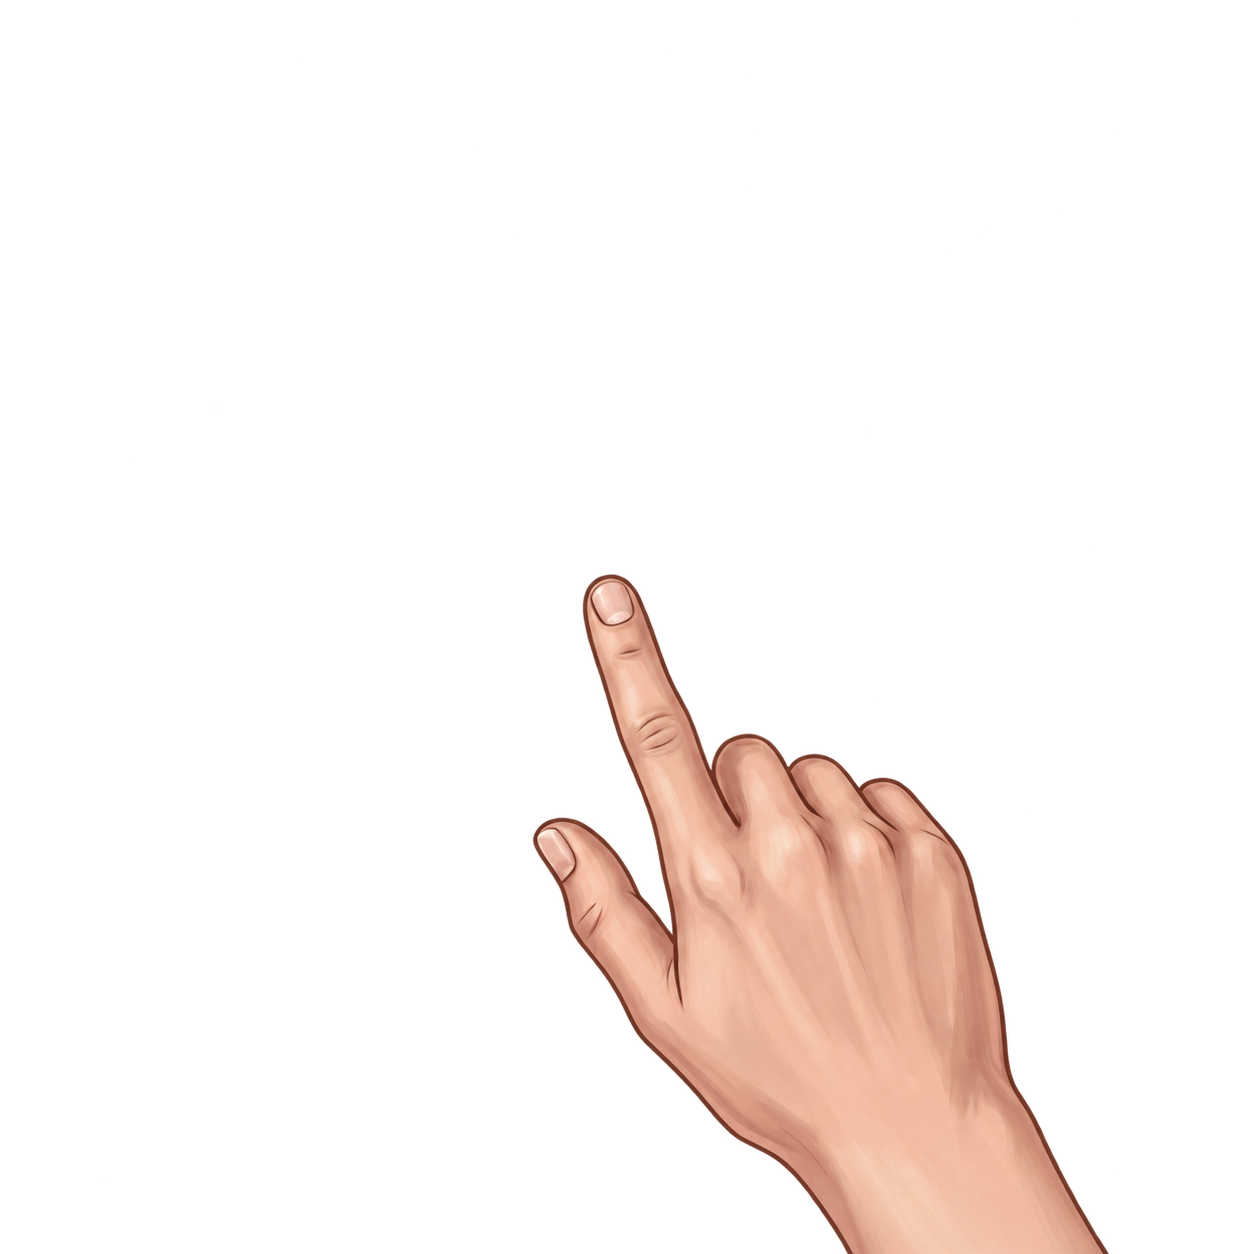
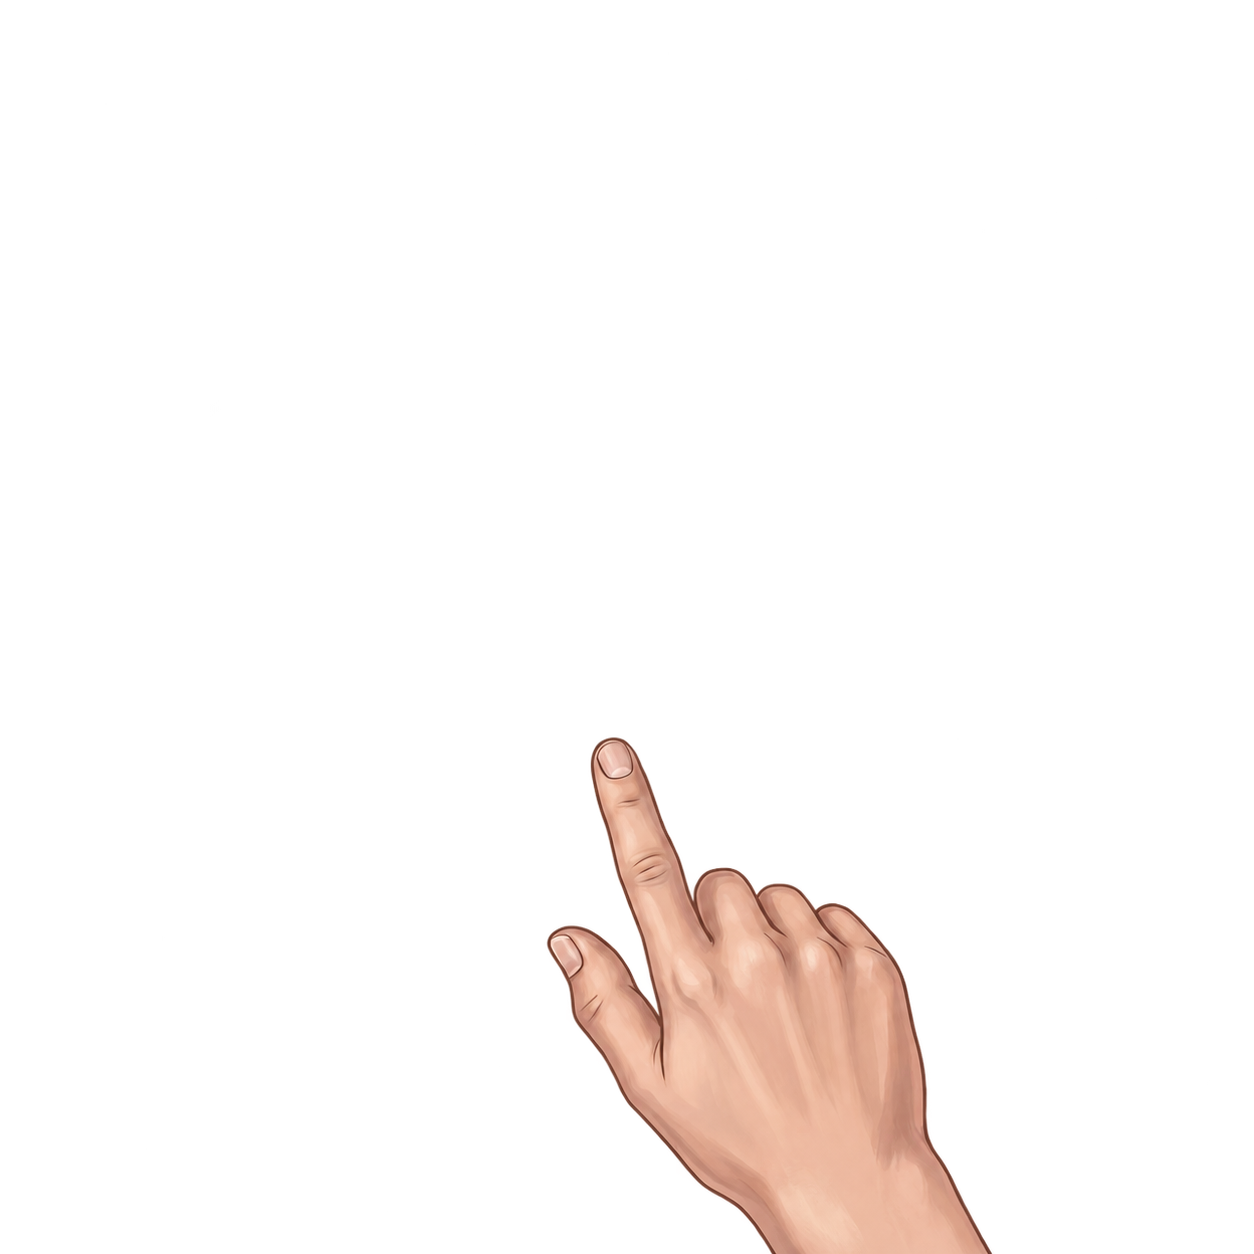
Changes positions.

Changed region(s): [[0.4043, 0.4354, 0.9019, 1.0]]

diff --git a/src/data/pointLayersConfig.ts b/src/data/pointLayersConfig.ts
@@ -58,7 +58,7 @@ export const POINT_CHIP_COORDINATES: Record<string, PointChipCoordinate | PointC
   'lu-5': { x: 49, y: 54, size: 10, label: 'LU 5 (Loketní ohyb)' }, // Střední pohled lokte
   'lu-7': { x: 47, y: 52, size: 10, label: 'LU 7 (Předloktí nad zápěstím)' }, // Detail zápěstí
   'lu-9': { x: 56, y: 62, size: 10, label: 'LU 9 (Velká propast - zápěstí)' }, // Velký detail zápěstí
-  'lu-11': { x: 38, y: 60, size: 10, label: 'LU 11 (Palec u nehtu)' }, // Velký detail prstu
+  'lu-11': { x: 38, y: 58, size: 8, label: 'LU 11 (Palec u nehtu)' }, // Velký detail prstu
 
   // === DRÁHA TLUSTÉHO STŘEVA (LI) ===
   'li-4': { x: 49, y: 49, size: 10, label: 'LI 4 (Hegu - ruka)' }, // Velký detail hřbetu ruky
@@ -71,8 +71,8 @@ export const POINT_CHIP_COORDINATES: Record<string, PointChipCoordinate | PointC
 
   // === DRÁHA ŽALUDKU (ST) ===
   'st-2': [ // Párový bod pod oběma očima (2 chipy)
-    { x: 38.5, y: 53.5, size: 10, label: 'Levý ST 2' },
-    { x: 61.5, y: 53.5, size: 10, label: 'Pravý ST 2' },
+    { x: 38.5, y: 53.5, size: 8, label: 'Levý ST 2' },
+    { x: 61.5, y: 53.5, size: 8, label: 'Pravý ST 2' },
   ],
   'st-3': [ // Párový bod pod lícními kostmi (2 chipy)
     { x: 28.0, y: 54.0, size: 8, label: 'Levý ST 3' },
@@ -106,7 +106,7 @@ export const POINT_CHIP_COORDINATES: Record<string, PointChipCoordinate | PointC
   // === DRÁHA TENKÉHO STŘEVA (SI) ===
   'si-3': { x: 48, y: 52, size: 8, label: 'SI 3 (Hřbet dlaně u malíku)' }, // Velký detail pěsti
   'si-11': { x: 52.0, y: 51.0, size: 8, label: 'SI 11 (Lopatka / kloub)' }, // Detail bodu
-  'si-19': { x: 56.5, y: 55.0, size: 8, label: 'SI 19 (Před uchem)' }, // Střední detail ucha
+  'si-19': { x: 55, y: 55.0, size: 8, label: 'SI 19 (Před uchem)' }, // Střední detail ucha
 
   // === DRÁHA MOČOVÉHO MĚCHÝŘE (UB) ===
   'ub-2': [ // Párový bod na vnitřním začátku obočí (2 chipy)
@@ -145,7 +145,7 @@ export const POINT_CHIP_COORDINATES: Record<string, PointChipCoordinate | PointC
     { x: 36.5, y: 63.5, size: 8, label: 'Levý UB 40' },
     { x: 63.5, y: 63.5, size: 8, label: 'Pravý UB 40' },
   ],
-  'ub-60': { x: 63.0, y: 57, size: 8, label: 'UB 60 (Hory Kunlun)' }, // Vnější kotník
+  'ub-60': { x: 60.0, y: 57, size: 8, label: 'UB 60 (Hory Kunlun)' }, // Vnější kotník
 
   // === DRÁHA LEDVIN (KD) ===
   'kd-3': { x: 53.0, y: 62.5, size: 10, label: 'KD 3 (Vnitřní kotník)' }, // Detail kotníku
@@ -157,7 +157,7 @@ export const POINT_CHIP_COORDINATES: Record<string, PointChipCoordinate | PointC
   'sj-3': { x: 55.0, y: 53, size: 10, label: 'SJ 3 (Hřbet ruky u kloubů)' }, // Detail hřbetu ruky
   'sj-5': { x: 54.0, y: 57.0, size: 10, label: 'SJ 5 (Hřbetní strana zápěstí)' }, // Detail zápěstí
   'sj-6': { x: 51.0, y: 58, size: 10, label: 'SJ 6 (Předloktí nad zápěstím)' }, // Střední pohled
-  'sj-17': { x: 55, y: 58.5, size: 8, label: 'SJ 17 (Štít proti větru)' }, // Za ušním lalůčkem
+  'sj-17': { x: 56.5, y: 59, size: 8, label: 'SJ 17 (Štít proti větru)' }, // Za ušním lalůčkem
 
   // === DRÁHA ŽLUČNÍKU (GB) ===
   'gb-2': { x: 50.5, y: 72.0, size: 8, label: 'GB 2 (Sluchové setkání)' }, // Před uchem
